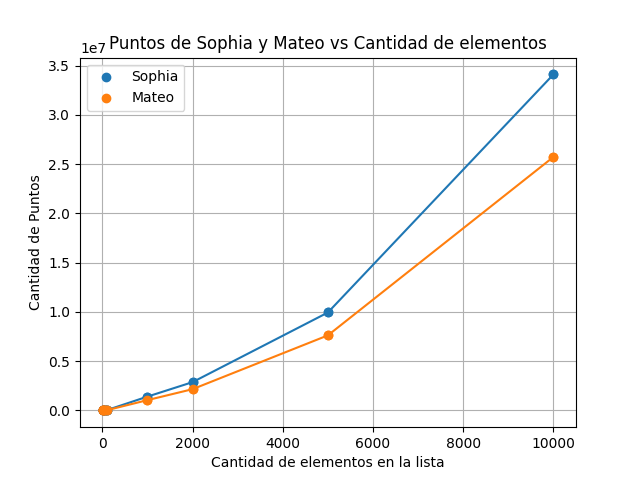
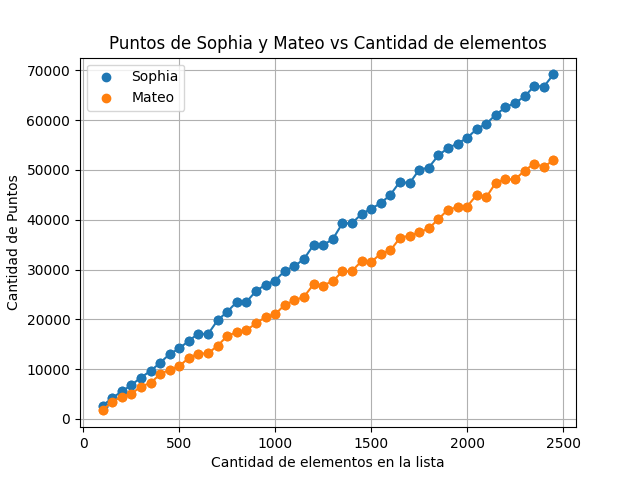
REFACTOR cantidad vs puntos ahora con juegos generados por nosotros

diff --git a/TP2/src/cant_vs_puntos.py b/TP2/src/cant_vs_puntos.py
@@ -2,20 +2,37 @@ import matplotlib.pyplot as plt
 import numpy as np
 from src.auxiliares import *
 
-def mostrar_cantidad_vs_puntos(tamaños, puntos_s, puntos_m):
+MIN_JUEGOS = 100
+MAX_JUEGOS = 2500
+SALTO = 50
+
+
+def mostrar_cantidad_vs_puntos():
     """
     Muestra un gráfico con los puntos de Sophia y Mateo en función 
     de la cantidad de elementos en la lista.
     """
-    tamanios = np.array(tamaños)
-    puntos_s = np.array(puntos_s)
-    puntos_m = np.array(puntos_m)   
+
+    _tamanios = range(MIN_JUEGOS, MAX_JUEGOS, SALTO) 
+
+    listas_de_monedas = []
+    for tamanio in _tamanios:
+        coins = generar_monedas(tamanio, 1)
+        if coins.size == 0: # por alguna razon siempre el primer arreglo que genera es vacio
+            coins = np.array([1])
+        listas_de_monedas.append(coins)
+
+    _, puntos_sofia, puntos_mateo = jugar_muchos_arreglos(listas_de_monedas)
+
+    tamanios = np.array(_tamanios)
+    puntos_s = np.array(puntos_sofia)
+    puntos_m = np.array(puntos_mateo)   
 
     plt.scatter(tamanios, puntos_s, label='Sophia')
     plt.scatter(tamanios, puntos_m, label='Mateo')
     plt.title("Puntos de Sophia y Mateo vs Cantidad de elementos")
-    plt.plot(tamaños, puntos_s, marker='o')
-    plt.plot(tamaños, puntos_m, marker='o')
+    plt.plot(tamanios, puntos_s, marker='o')
+    plt.plot(tamanios, puntos_m, marker='o')
 
     plt.xlabel("Cantidad de elementos en la lista")
     plt.ylabel("Cantidad de Puntos")

diff --git a/TP2/grafico.py b/TP2/grafico.py
@@ -18,9 +18,7 @@ def ejecutar_graficos():
             #tamaños, listas = monedas_desde_archivos()
             mostrar_cantidad_vs_tiempo()
         elif grafico == "puntos_vs_cantidad":
-            tamaños, listas = monedas_desde_archivos()
-            _, puntos_sofia, puntos_mateo = jugar_muchos_arreglos(listas)
-            mostrar_cantidad_vs_puntos(tamaños, puntos_sofia, puntos_mateo)
+            mostrar_cantidad_vs_puntos()
         elif grafico == "victorias_sofia":
             if len(sys.argv) > 3:
                 n = int(sys.argv[4])
